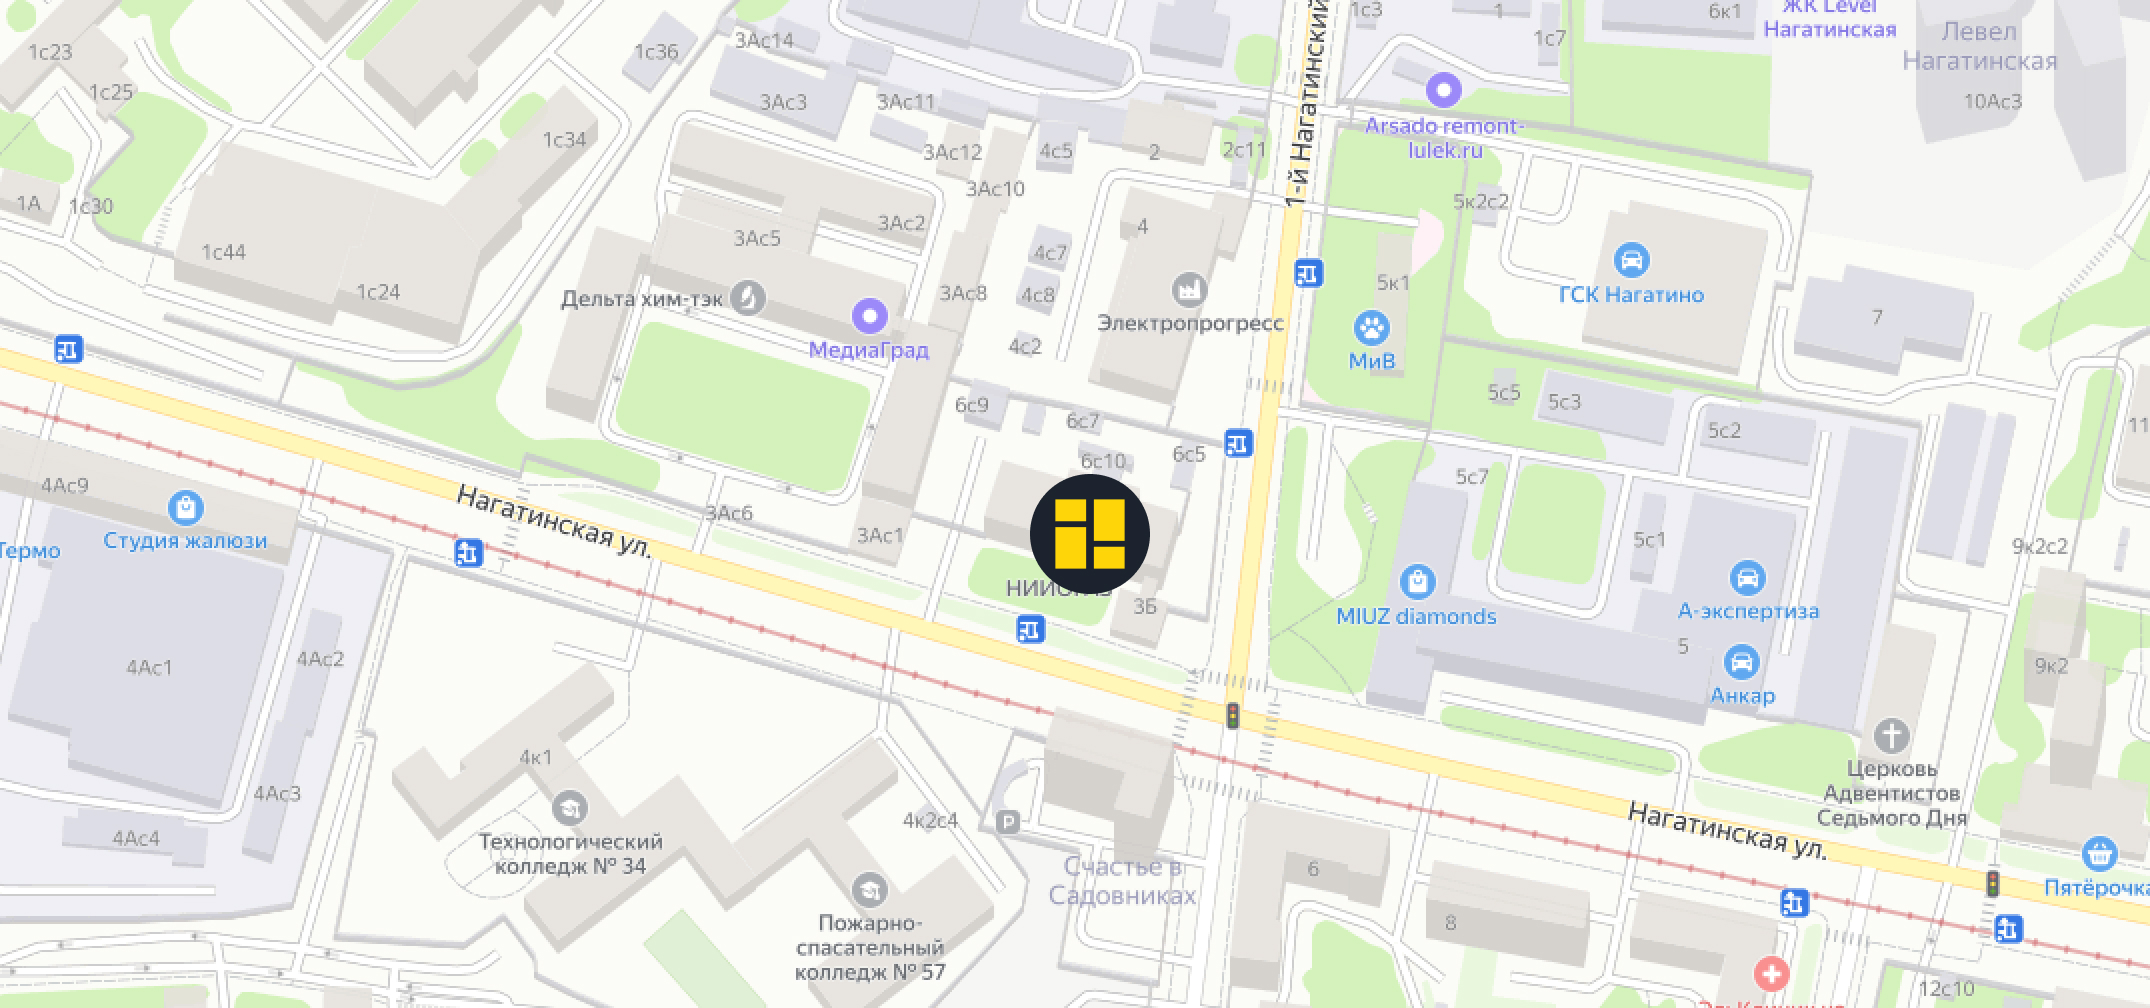
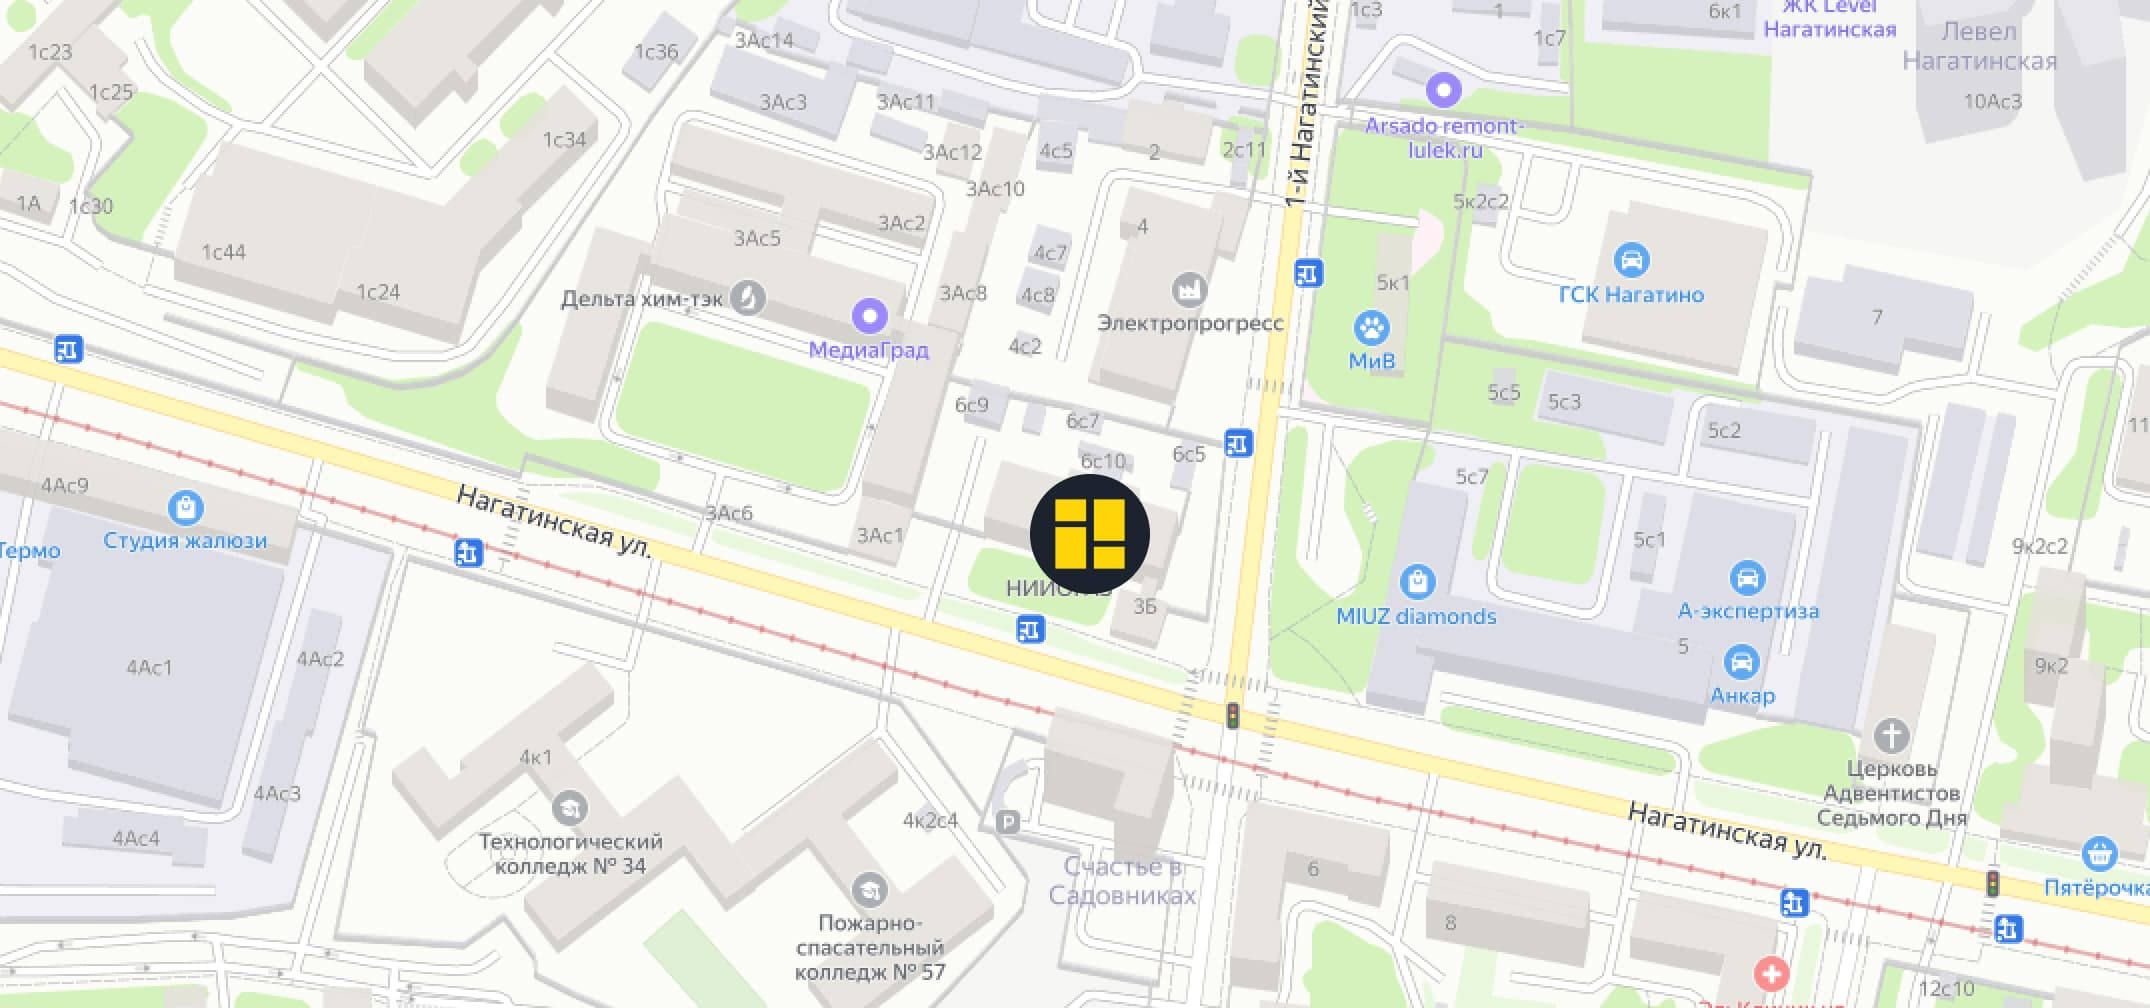
fix image and map pin position

diff --git a/index-spb.html b/index-spb.html
@@ -1709,7 +1709,7 @@
         <div class="info-col">
          <h2 class="title-h2">Контакты</h2>
 
-         <div class="contacts-row c-adress" data-cordinate-x="59.91313956420063" data-cordinate-y="30.369578499999943">
+         <div class="contacts-row c-adress" data-cordinate-x="59.9143630778708" data-cordinate-y="30.376326937881398">
           <div class="col-100">
            <span class="title-sm">Адрес:</span>
            <p class="title-h6">наб. Обводного канала, д.24 Д, БЦ «Амилен» 1 этаж, офис 28-29</p>
